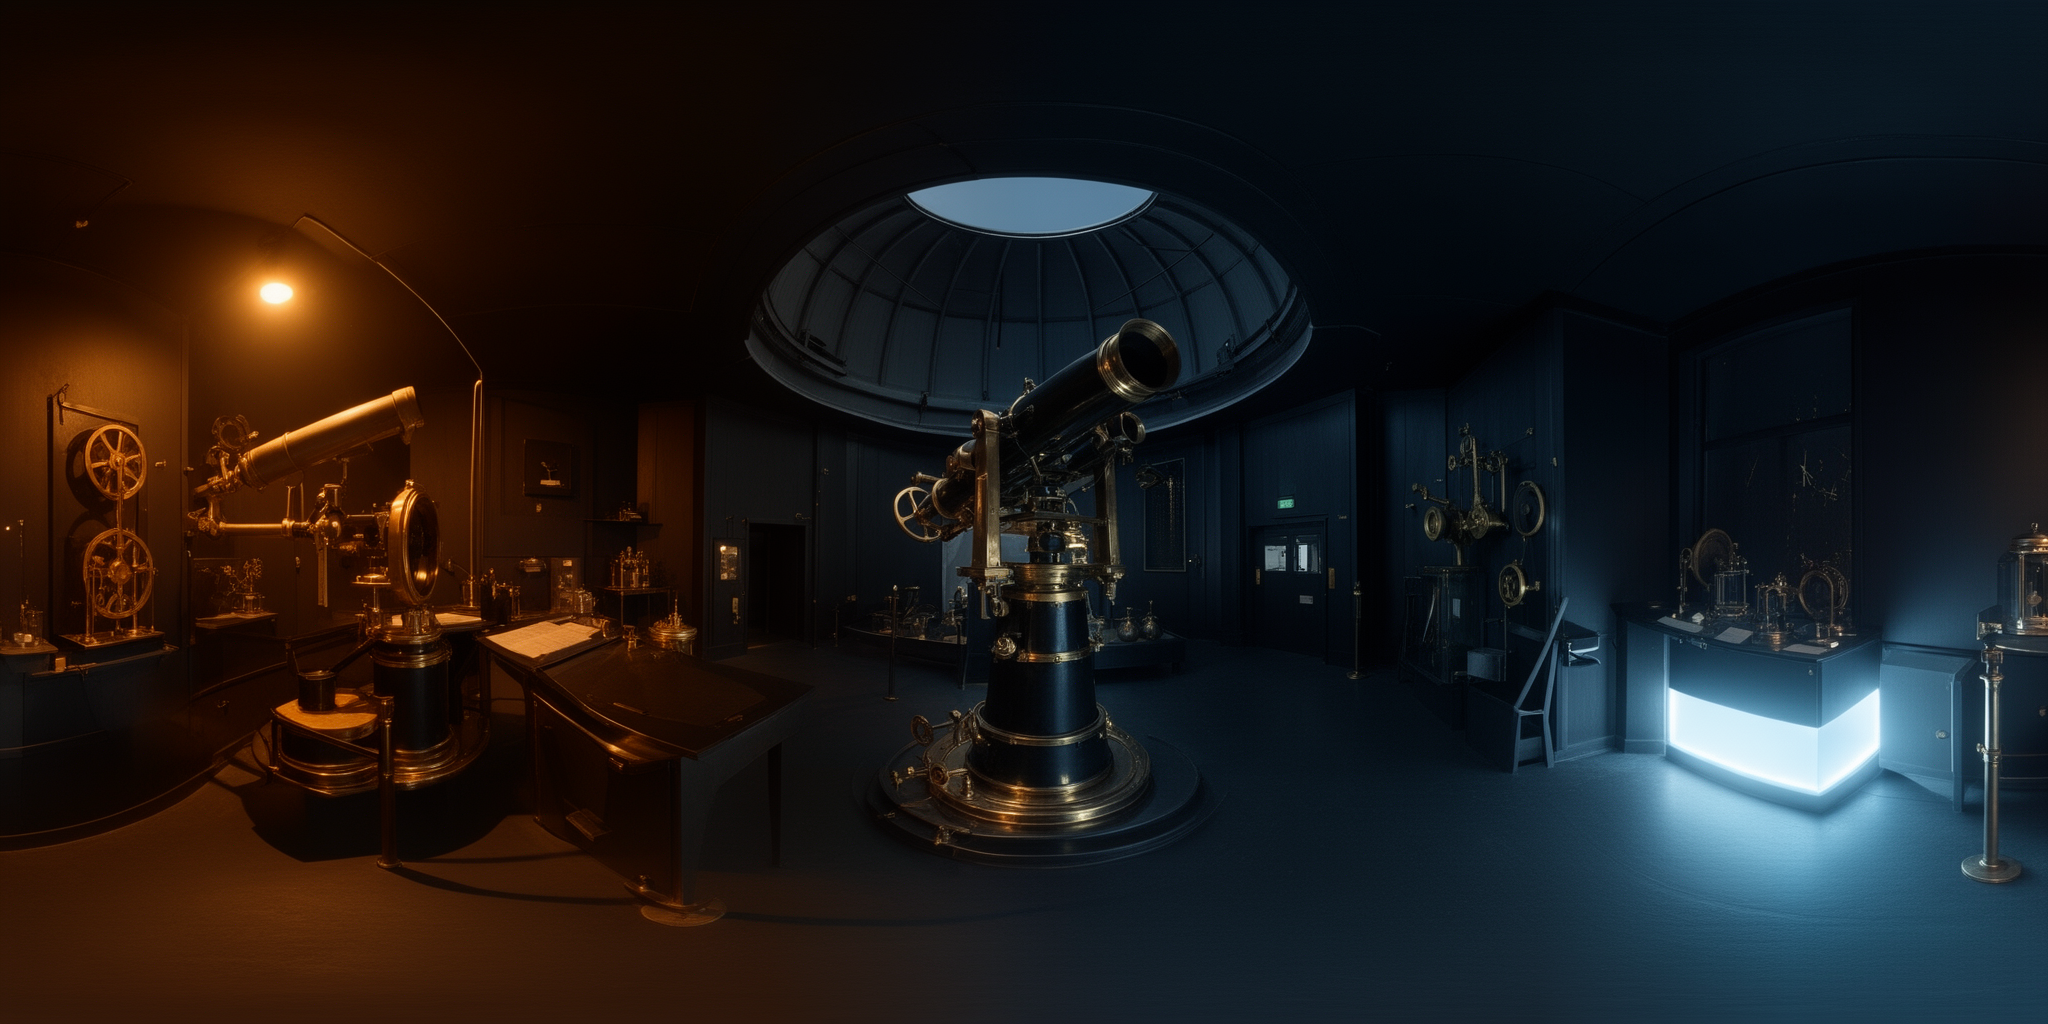
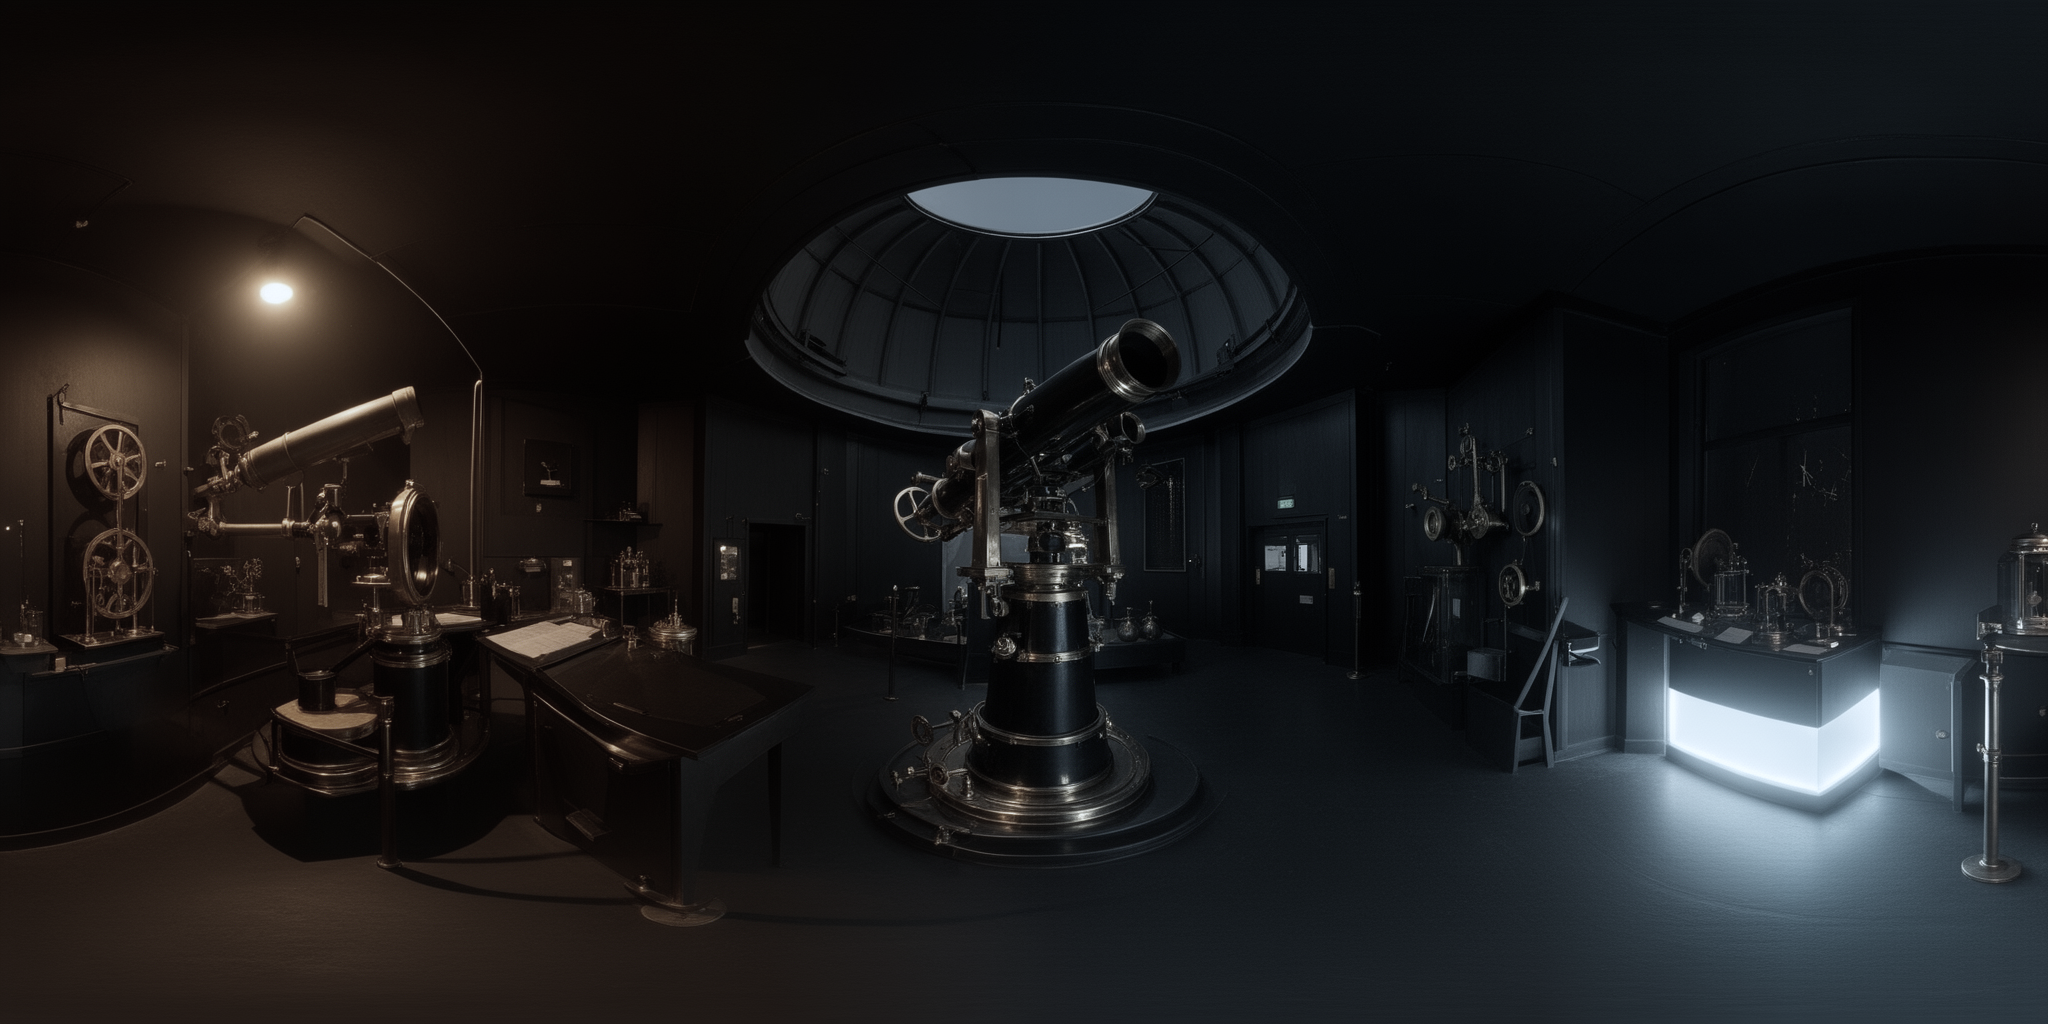
F2b: kill warm env cast on chrome rail + square capsule buttons + arc-cyan progress (was green)

diff --git a/kid-kode-landing/src/components/editor/overlays/TopBar.tsx b/kid-kode-landing/src/components/editor/overlays/TopBar.tsx
@@ -65,7 +65,9 @@ export default function TopBar() {
     hero: true,
     heroStyle: 'brass',
     accent: 1,
-    radius: 999,
+    // F2b — machined corner (--ds-r-sm 9px), NOT a capsule. DESIGN.md §5/§9:
+    // command buttons are 4–10px radius, never pill/9999.
+    radius: 9,
     heroDepthPx: 10,
     // EDITOR-EXP P2 (C12) — draw the hero key AFTER (on top of) the full-width
     // masthead rail. Both are opaque slabs with depthTest off in one instanced
@@ -73,8 +75,9 @@ export default function TopBar() {
     // the hero key and the brass never shows. The key only overlaps the rail.
     order: 100,
   });
-  const resetSlab = useChromeSlab({ material: 'glass', radius: 999, frost: 0.45 });
-  const searchSlab = useChromeSlab({ material: 'glass', radius: 999, frost: 0.45 });
+  // F2b — machined 9px corner (--ds-r-sm), NOT capsules.
+  const resetSlab = useChromeSlab({ material: 'glass', radius: 9, frost: 0.45 });
+  const searchSlab = useChromeSlab({ material: 'glass', radius: 9, frost: 0.45 });
 
   const zoomDesc: Record<string, string> = {
     L0: 'Galaxy · All hubs visible',
@@ -227,13 +230,17 @@ export default function TopBar() {
           style={{ borderRadius: 'var(--ds-r-pill)' }}
           title="Graph health"
         >
-          <Icon name="check" size={11} color={DS.ok} />
+          {/* F2b — complete/healthy = arc-cyan (the single active accent), not
+              off-palette green. */}
+          <Icon name="check" size={11} color={DS.arc} glow />
           <div className="flex items-center gap-1.5">
             <div
               className="flex h-1 w-24 rounded-full overflow-hidden"
               style={{ background: dsAlpha(DS.void, 0.65), boxShadow: 'inset 0 1px 2px rgba(0,0,0,0.6)' }}
             >
-              <div style={{ width: `${(verified / total) * 100}%`, background: 'var(--ds-ok)' }} />
+              {/* F2b — verified/complete fill = arc-cyan emissive (was off-palette
+                  green --ds-ok). Arc-cyan is the single active/complete accent. */}
+              <div style={{ width: `${(verified / total) * 100}%`, background: 'var(--ds-arc)' }} />
               <div style={{ width: `${(pending / total) * 100}%`, background: 'var(--ds-warn)' }} />
               <div style={{ width: `${(failed / total) * 100}%`, background: 'var(--ds-danger)' }} />
             </div>
@@ -245,9 +252,9 @@ export default function TopBar() {
           ref={addNodeSlab.ref}
           data-component="add-node-button"
           onClick={openAddNodeDialog}
-          className="ds-press inline-flex items-center gap-1.5 h-8 px-3.5 rounded-full text-ds-metal-100"
+          className="ds-press inline-flex items-center gap-1.5 h-8 px-3.5 rounded-ds-sm text-ds-metal-100"
           style={{
-            borderRadius: 'var(--ds-r-pill)',
+            borderRadius: 'var(--ds-r-sm)',
             // Light brass label riding the true-3D brass key (same legibility
             // pattern as the hub-switcher active slot + mode-toggle labels — a
             // crisp DOM glyph over the lit cap, never dark ink which vanishes
@@ -263,8 +270,8 @@ export default function TopBar() {
         <button
           ref={resetSlab.ref}
           onClick={resetCamera}
-          className="ds-btn ds-press w-8 h-8 px-0 rounded-full"
-          style={{ borderRadius: 'var(--ds-r-pill)' }}
+          className="ds-btn ds-press w-8 h-8 px-0 rounded-ds-sm"
+          style={{ borderRadius: 'var(--ds-r-sm)' }}
           title="Reset camera"
         >
           <Icon name="refresh" size={12} color={DS.textMid} />
@@ -273,8 +280,8 @@ export default function TopBar() {
         <button
           ref={searchSlab.ref}
           onClick={toggleSearch}
-          className="ds-btn ds-press h-8 rounded-full"
-          style={{ borderRadius: 'var(--ds-r-pill)' }}
+          className="ds-btn ds-press h-8 rounded-ds-sm"
+          style={{ borderRadius: 'var(--ds-r-sm)' }}
           title="Search (⌘K)"
         >
           <Icon name="search" size={11} color={DS.textMid} />

diff --git a/kid-kode-landing/src/components/editor/chrome-layer/material.ts b/kid-kode-landing/src/components/editor/chrome-layer/material.ts
@@ -101,10 +101,16 @@ export interface ChromeTextures {
   brushedRough: THREE.Texture;
   ceramicNormal: THREE.Texture;
   ceramicRough: THREE.Texture;
-  /** fal-generated warm observatory equirect — the chrome's OWN reflection
-   *  environment. Hub light rigs vary wildly (a spec'd hub mounts the bright
-   *  drei 'studio' env, which washed ceramic cards to white); chrome must
-   *  read as the same machined instrument in every hub. */
+  /** COOL-NEUTRAL studio equirect — the chrome's OWN reflection environment.
+   *  F2b (2026-06-19): the original fal asset carried a WARM observatory ambient
+   *  (shadow/mid bands R-B +5..+6, ~10% distinctly-amber pixels) which the
+   *  near-mirror metal reflected as an amber/brown highlight running the rail's
+   *  vertical spine at grazing angles (Fresnel peak). The asset is now
+   *  desaturated toward neutral + slightly cool-shifted at source (mid band
+   *  R-B −3.4, warm pixels 2.75%) so the rail reads as cool machined metal with
+   *  ZERO amber/copper. Cool softbox strips on near-black are preserved so the
+   *  chrome still resolves crisp specular streaks. Hub light rigs vary wildly;
+   *  chrome must read as the same machined instrument in every hub. */
   env: THREE.Texture;
   /** 0 until all maps decoded — the graph blends them in over the procedural
    *  noise so slabs never flash a broken black-normal state. */

diff --git a/kid-kode-landing/src/app/page.tsx b/kid-kode-landing/src/app/page.tsx
@@ -729,7 +729,12 @@ export default function Page() {
                   ) * 96}px)`,
                   transition: 'transform var(--ds-t-slow) var(--ds-ease-spring)',
                   background: 'var(--ds-grad-metal-soft)',
-                  boxShadow: 'var(--ds-chamfer-soft), var(--ds-glow-arc)',
+                  // F2b optional — bring the active mode-toggle segment to parity
+                  // with the hub-pill active state: a prominent arc-cyan edge
+                  // groove (inset ring) + the strong arc glow, instead of the
+                  // fainter plain --ds-glow-arc.
+                  boxShadow:
+                    'var(--ds-chamfer-soft), inset 0 0 0 1px rgba(var(--ds-arc-rgb), 0.55), var(--ds-glow-arc-strong)',
                 }}
               />
               {([
